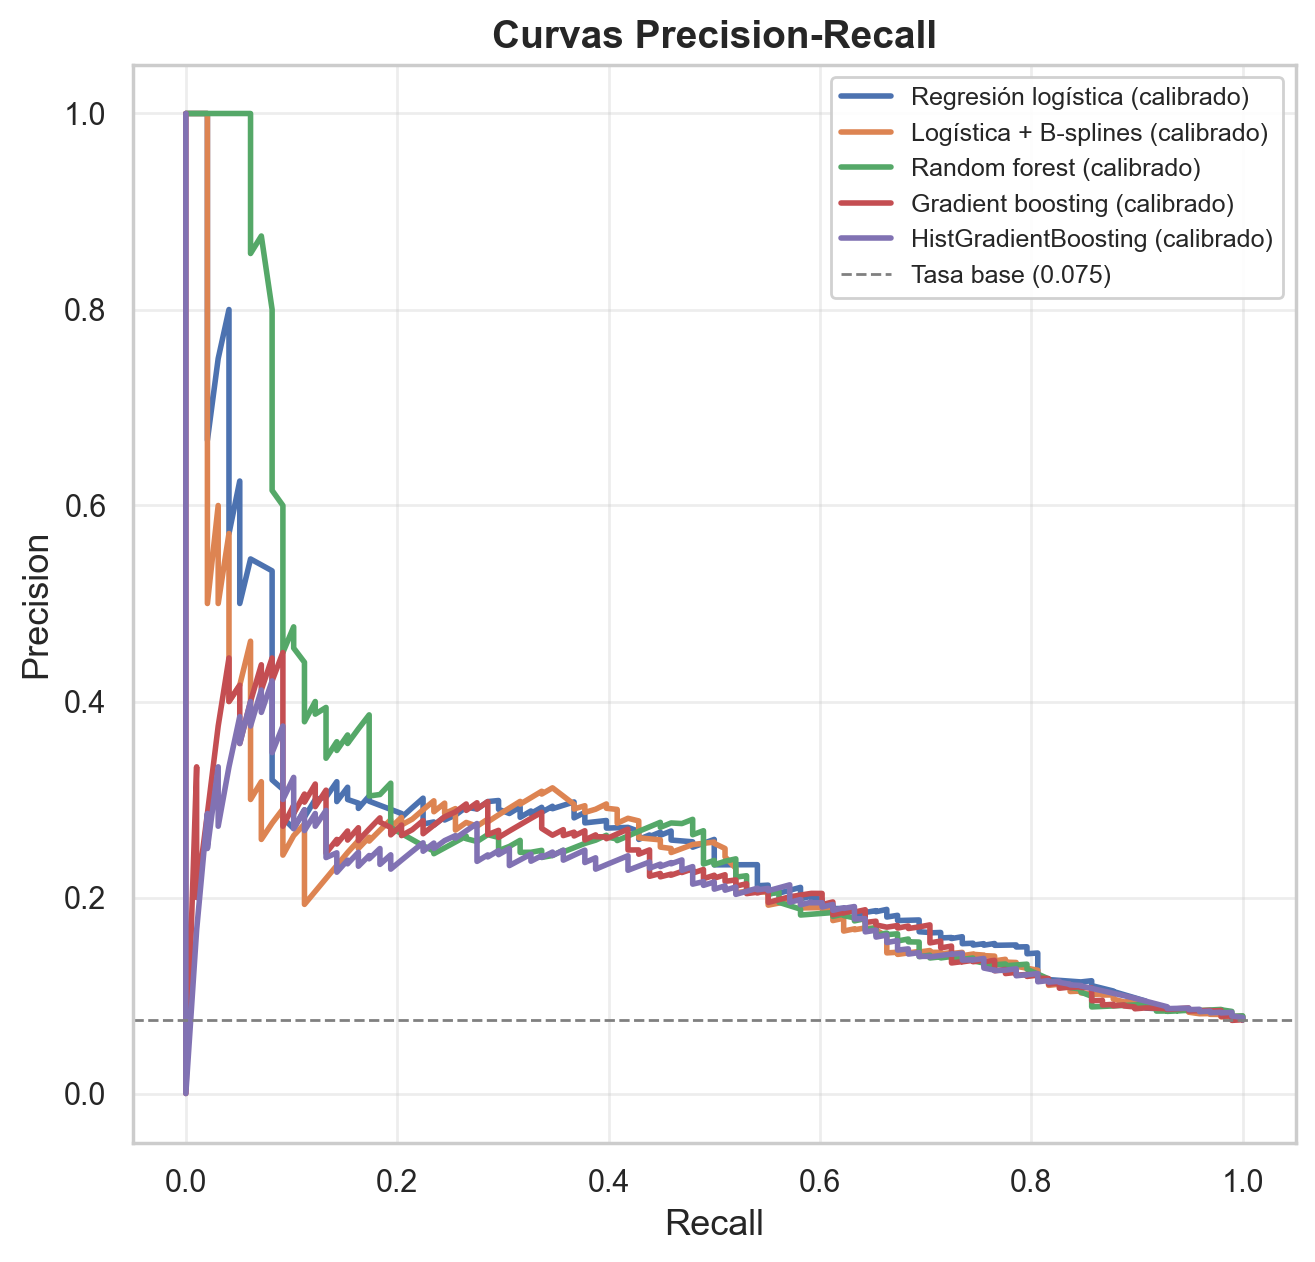
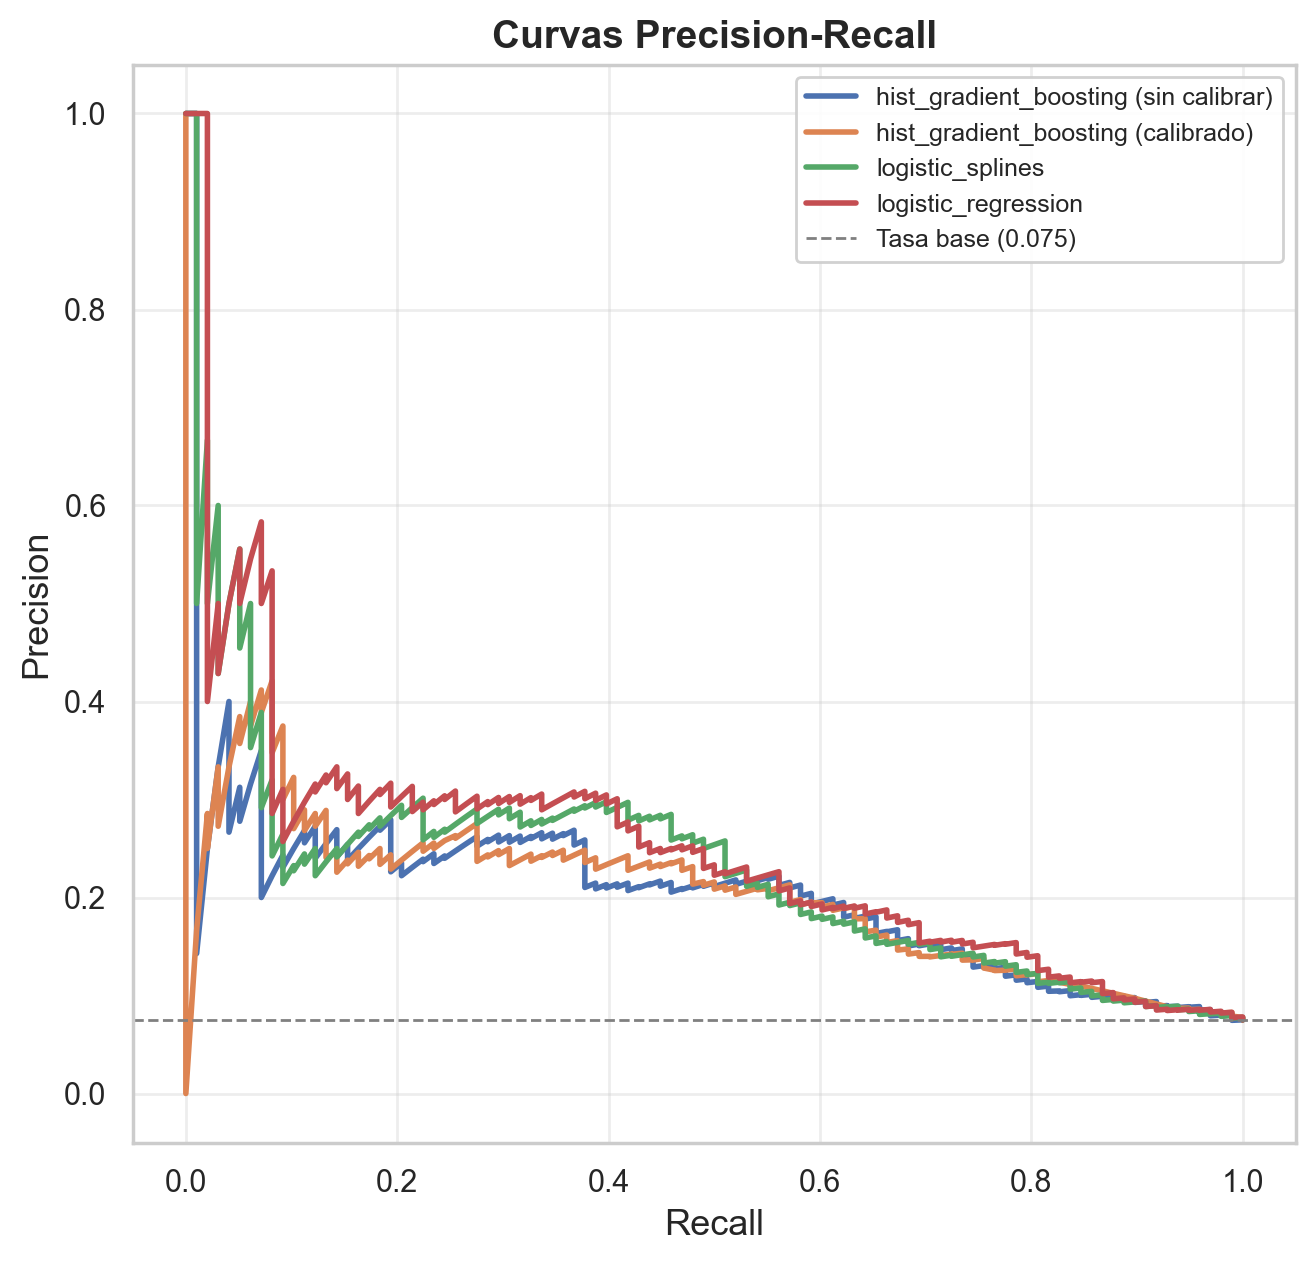
Corrige el prior del backend Beta-Binomial y la unidad de las bandas de distancia
Dos errores matematicos detectados en la revision del codigo.

1. El prior conjugado se anclaba por su MODO y no por su MEDIA.
   Beta(kappa*q+1, kappa*(1-q)+1) tiene modo q pero media (kappa*q+1)/(kappa+2),
   estrictamente mayor que q cuando q < 1/2. Como la habilidad se mide con la
   media posterior, un jugador que marcase exactamente su xG obtenia habilidad
   +0,32 en lugar de 0, y la regla implicita pasaba a ser 'goles > xG - 0,81'.
   Consecuencia: 23 de 97 jugadores que marcan MENOS que su xG figuraban con
   habilidad positiva. Con el prior anclado por la media, Beta(kappa*q,
   kappa*(1-q)), los jugadores con habilidad positiva pasan de 74 a 51, que son
   exactamente los que superan su xG, y los 23 incoherentes desaparecen. El
   veredicto sustantivo no cambia: siguen siendo 0 de 97 los significativos, y la
   correlacion con el backend principal mejora de 0,968 a 0,988.

2. Las bandas de distancia se rotulaban en metros pero se cortan sobre las
   coordenadas de StatsBomb, que estan en yardas. Corregido a unidades.

Anadido scripts/run_tau_null.py, que construye la distribucion nula del
hiperparametro tau resorteando los goles bajo la hipotesis nula. Sobre 300
replicas tau promedia 0,180 con percentil 95 de 0,399, de modo que el 0,3374
observado queda dentro del rango del azar (p empirico 0,12): no es evidencia de
heterogeneidad. Los cambios en model_comparison_cv son de ultimo bit (~1e-17) por
[…]

Changed region(s): [[0.1247, 0.0618, 0.9354, 0.8653], [0.5924, 0.0618, 0.9665, 0.2472]]

diff --git a/scripts/run_tau_null.py b/scripts/run_tau_null.py
@@ -1,0 +1,95 @@
+# -*- coding: utf-8 -*-
+"""Distribución nula del hiperparámetro tau del modelo jerárquico de finalización.
+
+Pregunta que responde
+---------------------
+El análisis bayesiano estima tau = 0,3374 sobre los datos reales. ¿Es ese valor
+prueba de que existe heterogeneidad de finalización entre jugadores, o es lo que
+el estimador devuelve incluso cuando nadie tiene habilidad diferencial?
+
+Diseño
+------
+Se conserva íntegra la estructura real del problema —los mismos 97 jugadores, sus
+mismos disparos y el xG que el modelo calibrado les asignó fuera de muestra— y solo
+se resortean los goles como Bernoulli(xg_pred). Eso es exactamente la hipótesis
+nula: la probabilidad de gol de cada disparo es la que predice el modelo, sin
+efecto de jugador. Sobre cada réplica se aplica el mismo estimador de Bayes
+empírico (EM + aproximación de Laplace) que usa el análisis real.
+
+Salida
+------
+data/results/tau_distribucion_nula.csv  con los estadísticos de la distribución
+nula y el p-valor empírico del valor observado.
+
+Uso
+---
+    python scripts/run_tau_null.py [n_replicas]
+"""
+from __future__ import annotations
+
+import sys
+import time
+from pathlib import Path
+
+import numpy as np
+import pandas as pd
+
+ROOT = Path(__file__).resolve().parents[1]
+sys.path.insert(0, str(ROOT / "src"))
+
+from xg.models.bayesian import fit_hierarchical_finishing  # noqa: E402
+
+SCORED = ROOT / "data" / "processed" / "shots_scored.parquet"
+TRACE = ROOT / "data" / "results" / "bayesian_em_trace.csv"
+OUT = ROOT / "data" / "results" / "tau_distribucion_nula.csv"
+
+MIN_SHOTS = 12
+SEED = 42
+
+
+def main(n_rep: int = 300) -> None:
+    tau_obs = float(pd.read_csv(TRACE)["tau"].iloc[-1])
+
+    d = pd.read_parquet(SCORED)[["player", "xg_pred"]].dropna()
+    cuenta = d.groupby("player")["xg_pred"].transform("size")
+    d = d[cuenta >= MIN_SHOTS].copy()
+    print("jugadores: %d | disparos: %d" % (d["player"].nunique(), len(d)))
+    print("tau observado: %.4f" % tau_obs)
+
+    p = d["xg_pred"].to_numpy(float)
+    rng = np.random.default_rng(SEED)
+    taus, t0 = [], time.time()
+    for r in range(n_rep):
+        sim = d.copy()
+        sim["is_goal"] = (rng.random(len(p)) < p).astype(int)
+        res = fit_hierarchical_finishing(sim, group_col="player",
+                                         prob_col="xg_pred", min_shots=MIN_SHOTS)
+        taus.append(float(res.tau))
+        if (r + 1) % 50 == 0:
+            print("  %d/%d (%.0f s)" % (r + 1, n_rep, time.time() - t0))
+
+    t = np.array(taus)
+    sup = int((t >= tau_obs).sum())
+    filas = [
+        ("n_replicas", n_rep),
+        ("tau_observado", round(tau_obs, 4)),
+        ("media_nula", round(float(t.mean()), 4)),
+        ("mediana_nula", round(float(np.median(t)), 4)),
+        ("desv_tipica_nula", round(float(t.std(ddof=1)), 4)),
+        ("percentil_5", round(float(np.percentile(t, 5)), 4)),
+        ("percentil_50", round(float(np.percentile(t, 50)), 4)),
+        ("percentil_90", round(float(np.percentile(t, 90)), 4)),
+        ("percentil_95", round(float(np.percentile(t, 95)), 4)),
+        ("percentil_99", round(float(np.percentile(t, 99)), 4)),
+        ("maximo_nulo", round(float(t.max()), 4)),
+        ("replicas_que_superan_el_observado", sup),
+        ("p_empirico", round(sup / n_rep, 4)),
+    ]
+    pd.DataFrame(filas, columns=["estadistico", "valor"]).to_csv(OUT, index=False)
+    print("\nescrito: %s" % OUT)
+    for k, v in filas:
+        print("  %-36s %s" % (k, v))
+
+
+if __name__ == "__main__":
+    main(int(sys.argv[1]) if len(sys.argv) > 1 else 300)

diff --git a/src/xg/bayes/finishing.py b/src/xg/bayes/finishing.py
@@ -215,8 +215,13 @@ def fit_empirical_bayes(
     kappa_hat = float(np.exp(res.x))
 
     # --- Posterior Beta por jugador ---------------------------------------- #
-    a = kappa_hat * q + 1.0
-    b = kappa_hat * (1.0 - q) + 1.0
+    # El prior se ancla por su MEDIA, no por su modo: Beta(kappa*q, kappa*(1-q))
+    # tiene media exactamente q. La parametrizacion con el +1 fija en cambio el
+    # modo en q y deja la media en (kappa*q+1)/(kappa+2), estrictamente mayor que
+    # q cuando q < 1/2. Como la habilidad se mide con la media posterior, aquel
+    # prior asignaba habilidad positiva a jugadores que marcan menos que su xG.
+    a = kappa_hat * q
+    b = kappa_hat * (1.0 - q)
     a_post = a + k
     b_post = b + (n - k)
 

diff --git a/src/xg/analysis/aggregation.py b/src/xg/analysis/aggregation.py
@@ -168,7 +168,9 @@ def subgroup_performance(
     bands = pd.cut(
         df["distance_to_goal"],
         bins=[0, 6, 11, 16, 22, np.inf],
-        labels=["0-6 m", "6-11 m", "11-16 m", "16-22 m", ">22 m"],
+        # Unidades del sistema de coordenadas de StatsBomb (1 u ~ 0,91 m), que es la
+        # escala en la que se calcula distance_to_goal.
+        labels=["0-6 u", "6-11 u", "11-16 u", "16-22 u", ">22 u"],
     )
     groups = {
         "distancia": bands,
